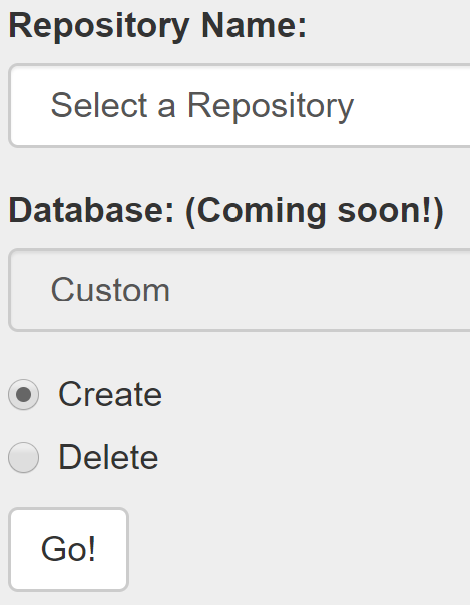
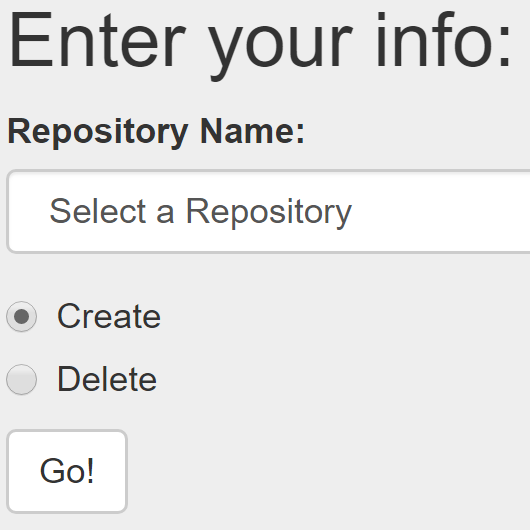
Added tons of documentation in app

Changed region(s): [[0.0, 0.0, 1.0, 0.5434], [0.0, 0.5434, 1.0, 0.9962]]

diff --git a/frontend/templates/help.html b/frontend/templates/help.html
@@ -6,6 +6,9 @@
 img {
     max-width: 20%;
 }
+li {
+    font-size: 16pt;
+}
 </style>
 {{super()}}
 {% endblock %}
@@ -23,6 +26,7 @@ img {
 </div>
 <div class="jumbotron">
     <a name="Quickstart"></a>
+    <a class="button btn-primary btn-lg" href="javascript:history.back()"><i class="material-icons">arrow_back</i></a>
     <div class="container">
         <h2>How to use Launch - Quickstart Guide</h2>
         <p>You've gotten to the web-page, now what? This tutorial will walk you through the basics of how to use Launch.</p>
@@ -44,12 +48,52 @@ img {
         <h2>UI Walkthrough</h2>
         <p>At its core, the Launch UI is supposed to be simple.</p>
         <p>You'll notice that you only need to fill in one text box, and the rest is either drop down or radio buttons.</p>
-        <p>That being said, there is </p>
+        <p>That being said, there is much to be gained from a deep understanding of the user interface and all of its parts.</p>
+        <ul>
+            <li>
+                <h3>GitHub Username:</h3>
+                <img src="../static/enterinfo.png">
+                <p>This is where you will enter your GitHub username so that Launch can pull information about all of your public repositories</p>
+            </li>
+            <li>
+                <h3>Repository:</h3>
+                <img src="../static/repodrop.png">
+                <p>This dropdown menu is an autopopulated list of your public repositories. Simply select the correct repo from the list and you'll be on your way!</p>
+            </li>
+            <li>
+                <h3>Create/Delete:</h3>
+                <img src="../static/cdgo.png">
+                <p>These radio buttons tell Launch whether you want to Create a new Project or Delete it based on the repository name.</p>
+            </li>
+            <li>
+                <h3>Deployments associated with this username:</h3>
+                <p>When you have deployments asociated with your GitHub username, they will appear here as a list of links.</p>
+                <p>These links simply take the current IP address and append the correct port to it, so your mileage with these links may vary.</p>
+                <p>While this method is convenient, and generally accurate, it may serve you best to also keep your own records of where your projects live.</p>
+            </li>
+            
+        </ul>
     </div>
     <a name="Create"></a>
     <div class="container">
         <h2>Create a Launch-Friendly Application</h2>
+        <p>One might find importance in the knowledge of how to create an app that Launch is capable of deploying.</p>
+        <p>Launch is currently only capable of deploying static web applications, although work is being done to allow for dynamic applications.</p>
+        <p>However, if you have a static web application that you would like to deploy with Launch, all you need to do is:</p>
+        <ol>
+            <li>Create a Dockerfile for your project</li>
+            <li>Upload your project to a public repository on GitHub</li>
+            <li>That's it!</li>
+        </ol>
+        <p>If your project has more than one function (i.g. You have a UI and an API) you should create two separate folders within your application. These  </p>
+        <h2>How to create a Dockerfile:</h2>
+        <p>It's all fine and good for us to tell you that you need to create a Dockerfile for your project, but what does this mean?</p>
+        <p><a href="https://docs.docker.com/develop/develop-images/dockerfile_best-practices/">Here is some best practices when building Dockerfiles.</a></p>
+        <p><a href="https://github.com/kstaken/dockerfile-examples">Here is a repository full of example Docker applications that includes custom Dockerfiles.</a></p>
+        <p>In general, it is best practice to have one Dockerfile per task. For example, an application that has both a UI and an API should have two separate Dockerfiles, and should be in two separate folders.</p>
+        
     </div>
+    <a class="button btn-primary btn-lg" href="javascript:history.back()"><i class="material-icons">arrow_back</i></a>
 </div>
 
 {% endblock %}
